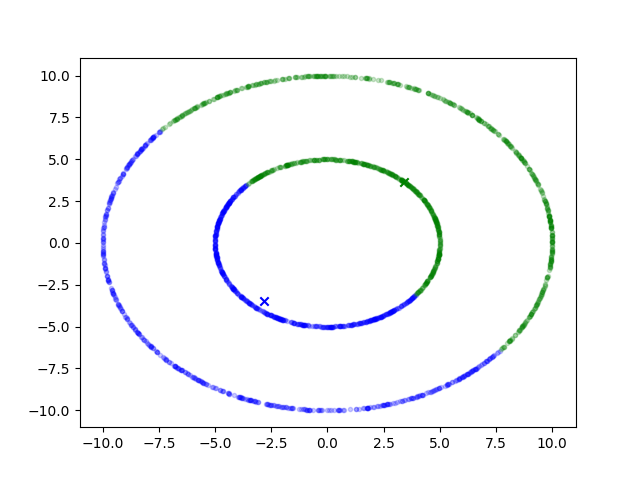
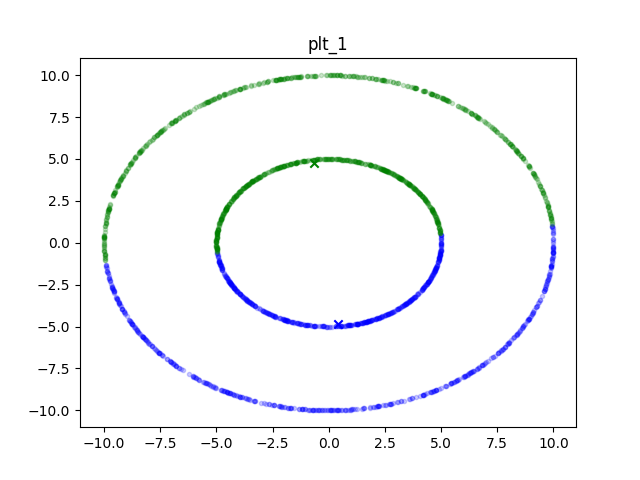
42

diff --git a/HW4_2/p12.py b/HW4_2/p12.py
@@ -2,7 +2,7 @@
 # @Author: yuchen
 # @Date:   2019-05-01 10:41:36
 # @Last Modified by:   yuchen
-# @Last Modified time: 2019-05-01 13:28:29
+# @Last Modified time: 2019-05-01 16:56:35
 
 
 import numpy as np
@@ -31,7 +31,7 @@ def iterator(dataset, centers):
 	newcenters = np.array([np.mean(pos[i], axis=0) for i in range(len(pos))])
 	return newcenters, np.array(assignment)
 
-def plot(dataset, centers, assignment, name="plt_2.png"):
+def plot(dataset, centers, assignment, name="plt_2"):
 	plt.clf()
 	colors = ['b', 'g']
 	for i in range(2):
@@ -39,7 +39,8 @@ def plot(dataset, centers, assignment, name="plt_2.png"):
 		plt.scatter(dataset[idx, 0], dataset[idx, 1], marker='.', alpha=0.5, color=colors[i])
 	plt.scatter(centers[0:1, 0], centers[0:1, 1], marker='x', color=colors[0])
 	plt.scatter(centers[1:2, 0], centers[1:2, 1], marker='x', color=colors[1])
-	plt.savefig(name)
+	plt.title(name)
+	plt.savefig(name + ".png") 
 
 
 def rnngraph(dataset, r):
@@ -63,36 +64,40 @@ def findcc(graph):
 	i = 0
 	import queue
 	q = queue.Queue(n)
+	status = np.zeros((n, ))	# 0: not found, 1: in queue, 2: found
 	while i < n:
-		if i in found:
+		if status[i] == 2:
 			i += 1
 			continue
+		elif status[i] == 1:
+			raise ValueError("Impossible executing logic")
+		else:
+			pass
+
 		vec = np.zeros((n, ))
 		q.put(i)
-		inqueue.add(i)
+		status[i] = 1
+
 		while not q.empty():
 			x = q.get()
-			inqueue.remove(x)
 			# print("Queue size: {}".format(q.qsize()))
-			if x in found:
+			if status[x] == 2:
 				continue
-			print(x)
-			found.add(x)
+			status[x] = 2
 			vec[x] = 1
 			for j in range(n):
-				if graph[i, j] == 1 and j not in found and j not in inqueue:
-					# print("In for loop, j = {}".format(j))
+				if graph[x, j] == 1 and status[j] == 0:
 					q.put(j)
-					inqueue.add(j)
+					status[j] = 1
 		vecs.append(vec)
 	return vecs
 
 def main():
-	n = 200
+	n = 400
 	k = 2
 	sig = 0.1
 	r = 2.0
-	rnum = 30
+	rnum = 50
 	MAXITER = 500
 	dataset = dataset1(n)
 
@@ -103,10 +108,12 @@ def main():
 	vecs = findcc(W)
 
 	dataV = np.vstack(vecs).T
-	# centers = nr.normal(size=(k, dataV.shape[1]))
-	centers = dataV[:k]
-
-	# embed()
+	print("#CC = {}".format(dataV.shape[1]))
+	centers = []
+	for i in range(k):
+		tmp = np.zeros((k))
+		tmp[i] = 1
+		centers.append(tmp)
 
 	for it in range(MAXITER):
 		if it % 20 == 0:

diff --git a/HW4_2/p11.py b/HW4_2/p11.py
@@ -2,7 +2,7 @@
 # @Author: yuchen
 # @Date:   2019-05-01 09:49:48
 # @Last Modified by:   yuchen
-# @Last Modified time: 2019-05-01 13:09:16
+# @Last Modified time: 2019-05-01 16:56:46
 
 import numpy as np
 import numpy.random as nr
@@ -28,7 +28,7 @@ def iterator(dataset, centers):
 	newcenters = np.array([np.mean(pos[i], axis=0) for i in range(len(pos))])
 	return newcenters, np.array(assignment)
 
-def plot(dataset, centers, assignment, name="plt_1.png"):
+def plot(dataset, centers, assignment, name="plt_1"):
 	plt.clf()
 	colors = ['b', 'g']
 	for i in range(2):
@@ -36,7 +36,8 @@ def plot(dataset, centers, assignment, name="plt_1.png"):
 		plt.scatter(dataset[idx, 0], dataset[idx, 1], marker='.', alpha=0.2, color=colors[i])
 	plt.scatter(centers[0:1, 0], centers[0:1, 1], marker='x', color=colors[0])
 	plt.scatter(centers[1:2, 0], centers[1:2, 1], marker='x', color=colors[1])
-	plt.savefig(name)
+	plt.title(name)
+	plt.savefig(name + ".png")
 
 def main():
 	n = 1000
